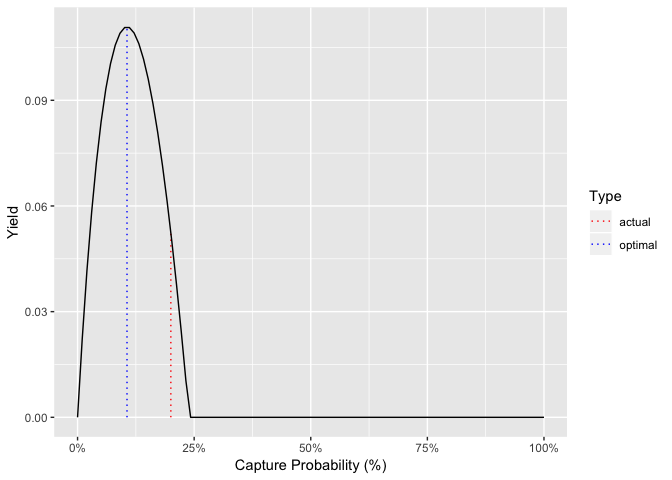
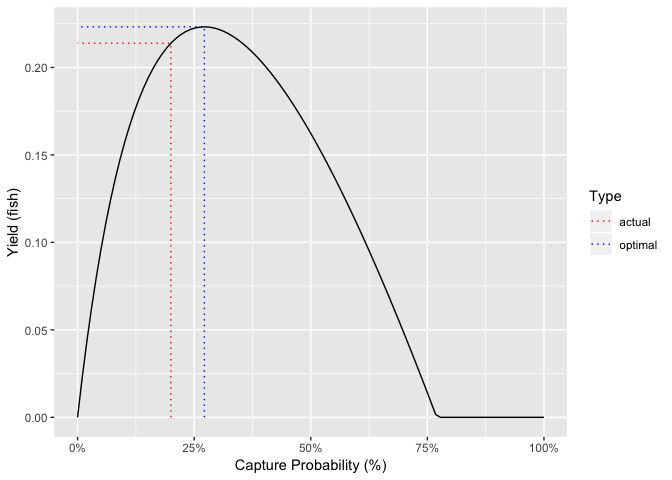
update README

diff --git a/README.md b/README.md
@@ -39,11 +39,20 @@ density-dependent growth.
 
 ``` r
 library(ypr)
-population <- ypr_population(Rk = 3)
+population <- ypr_population(Rk = 10)
 ypr_plot_yield(population)
 ```
 
 <img src="man/figures/README-unnamed-chunk-1-1.png" width="100%" />
+
+``` r
+ypr_tabulate_yield(population)
+#> # A tibble: 2 x 3
+#>   Type       pi Yield
+#>   <chr>   <dbl> <dbl>
+#> 1 actual  0.2   0.214
+#> 2 optimal 0.272 0.223
+```
 
 ## Installation
 
